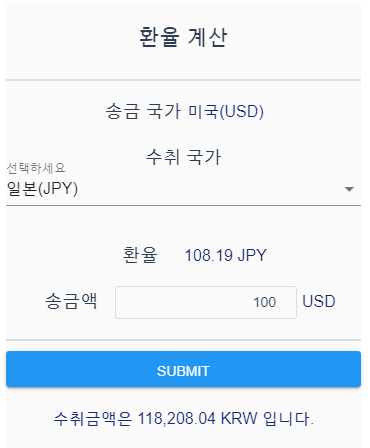
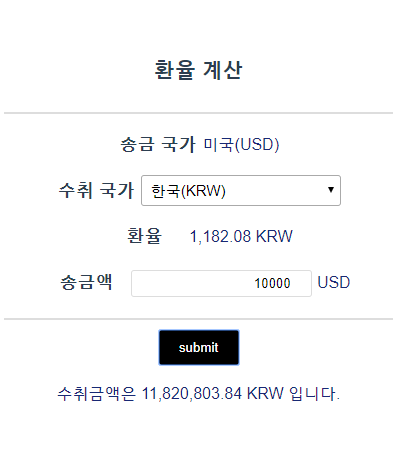
docs: README 수정

diff --git a/frontend/src/components/Home.vue b/frontend/src/components/Home.vue
@@ -1,7 +1,7 @@
 <template>
   <div class="container">
-    <div class="row justify-content-center mt-5 mb-5">
-      <v-app style="width:30%;">
+    <div class="row mt-5 mb-5">
+      <div style="width:30%;">
         <h1>환율 계산</h1>
         <ul>
           <li>
@@ -11,22 +11,25 @@
 
           <li>
             <h2>수취 국가</h2>
-            <v-select v-model="quoteCurrency" @change="getExchangeRate()"
-                      :items="items" label="선택하세요">
-            </v-select>
+            <select class="selectbox" v-model="quoteCurrency" @change="getExchangeRate()">
+              <option slot="first" disabled>선택하세요</option>
+              <option value="KRW">한국(KRW)</option>
+              <option value="JPY">일본(JPY)</option>
+              <option value="PHP">필리핀(PHP)</option>
+            </select>
           </li>
           <li>
             <h2>환율</h2>
-            <span >{{exchangeRate}}</span>
+            <span>{{exchangeRate}}</span>
           </li>
           <li>
             <h2>송금액</h2>
             <input type="number" v-model="amount" :rules="nameRules"><span>USD</span>
           </li>
         </ul>
-        <v-btn :disabled="!valid" @click="getRemittance()" color="info">submit</v-btn>
+        <button class="btn" :disabled="!valid" @click="getRemittance()" @keypress="getRemittance()">submit</button>
         <div class="result" v-if="remittance">수취금액은 <span>{{remittance}}</span> 입니다.</div>
-      </v-app>
+      </div>
     </div>
   </div>
 </template>
@@ -116,6 +119,7 @@
 
   li {
     margin-bottom: 10px;
+    width: 100%;
   }
 
   h1 {
@@ -131,13 +135,15 @@
     margin-bottom: 5px;
     display: inline-block;
     width: 80px;
+    font-weight: bold;
   }
 
-  select {
-    width: 290px;
+  .selectbox {
+    width: 200px;
     padding: 5px;
     border-radius: 3px;
     font-size: 15px;
+    border: 1px solid #aaaaaa;
   }
 
   input {
@@ -148,7 +154,7 @@
     text-align: right;
   }
 
-  button {
+  .btn {
     border: none;
     box-shadow: none;
     border-radius: 3px;
@@ -156,10 +162,11 @@
     padding: 10px;
     color: #fff;
     margin: 10px 0;
-    width: 100%;
+    width: 80px;
   }
+
   span {
-    color:rgb(24, 41, 116);
+    color: rgb(24, 41, 116);
     font-size: 16px;
   }
 
@@ -170,4 +177,5 @@
     text-align: center;
     color: rgb(24, 41, 116)
   }
+
 </style>

diff --git a/src/main/resources/templates/index.html b/src/main/resources/templates/index.html
@@ -1,1 +1,1 @@
-<!DOCTYPE html><html><head><meta charset=utf-8><meta name=viewport content="width=device-width,initial-scale=1"><title>Currency Converter</title><link href=/css/app.97597f0be8a5f7a457fd288c5d3633cb.css rel=stylesheet></head><body><div id=app></div><script type=text/javascript src=/js/manifest.1766e3c7586055624ca0.js></script><script type=text/javascript src=/js/vendor.3e4aca36f34fc110ec66.js></script><script type=text/javascript src=/js/app.60c0015f00da9809457a.js></script></body></html>
+<!DOCTYPE html><html><head><meta charset=utf-8><meta name=viewport content="width=device-width,initial-scale=1"><title>Currency Converter</title><link href=/css/app.a79326fe71e739e6592281d2556fc4d9.css rel=stylesheet></head><body><div id=app></div><script type=text/javascript src=/js/manifest.1766e3c7586055624ca0.js></script><script type=text/javascript src=/js/vendor.3e4aca36f34fc110ec66.js></script><script type=text/javascript src=/js/app.c6dcd7027f8ff192701b.js></script></body></html>

diff --git a/frontend/src/main.js b/frontend/src/main.js
@@ -4,27 +4,9 @@ import Vue from 'vue'
 import App from './App'
 import router from './router'
 import axios from 'axios'
-import BootstrapVue from 'bootstrap-vue'
-import 'bootstrap/dist/css/bootstrap.css'
-import 'bootstrap-vue/dist/bootstrap-vue.css'
-import 'vuetify/dist/vuetify.min.css'
-import Vuetify from 'vuetify'
-import Notifications from 'vue-notification'
-import icon from 'vue-awesome/components/Icon'
-import 'vue-awesome/icons'
-import 'material-design-icons-iconfont/dist/material-design-icons.css'
-
-Vue.component('icon',icon);
-Vue.use(Vuetify)
-Vue.use(BootstrapVue);
-Vue.use(Notifications);
-Vue.use(Vuetify, {
-  iconfont: 'mdi' // 'md' || 'mdi' || 'fa' || 'fa4'
-})
 
 Vue.prototype.$http = axios
 Vue.config.productionTip = false
-// axios.defaults.baseURL = "/api";
 
 
 /* eslint-disable no-new */

diff --git a/README.md b/README.md
@@ -4,6 +4,7 @@ SpringBoot와 Vue.js로 만든 환율 계산기
 
 ![img](frontend/src/assets/img.PNG)
 
+
 ## 실행 방법
 1. 해당 프로젝트를 clone
 ```bash
@@ -23,28 +24,30 @@ java -jar target/currency-converter-0.0.1-SNAPSHOT.jar
 ```
 5. localhost:8080 으로 접속
 
+
+
 ## 설계 및 구현   
 
-### 1. 외부 API 호출
-    - **최신 정보를 제공**하는 것이 중요하다고 판단해서 **환율 정보와 수취 금액을 요청할 때마다 외부 API를 요청**하도록 설계했습니다. 
-    - API 교체 경우를 대비해 Interface에 기능을 선언하고 Class에서 해당 기능을 구현했습니다. 
+## 1. 외부 API 호출
+- **최신 정보를 제공**하는 것이 중요하다고 판단해서 **환율 정보와 수취 금액을 요청할 때마다 외부 API를 요청**하도록 설계했습니다. 
+- API 교체 경우를 대비해 Interface에 기능을 선언하고 Class에서 해당 기능을 구현했습니다. 
       또, 외부 API 요청 이외의 기능은 별도 Class에서 구현해서 모듈화시켰습니다.  
-    - Timeout 설정을 이용해서 **외부 API 요청 지연으로 인한 문제를 방지**했습니다. 
-    - 외부 API 요청에 필요한 Url과 Access key는 용이하게 관리하기 위해 application.properties에 저장했습니다.
-    - 외부 API를 이용해 가져온 데이터를 사용하기 전에 유효성 검사를 진행합니다. 
+- Timeout 설정을 이용해서 **외부 API 요청 지연으로 인한 문제를 방지**했습니다. 
+- 외부 API 요청에 필요한 Url과 Access key는 용이하게 관리하기 위해 application.properties에 저장했습니다.
+- 외부 API를 이용해 가져온 데이터를 사용하기 전에 유효성 검사를 진행합니다. 
         (송금 국가가 고정이므로 source가 "USD"로 일치하는지 등등)
     
 ### 2. 수취 국가, 송금액에 따라 환율 정보, 수취 금액 가져오기 
-    - 수취 국가, 송금액을 입력하면 API 호출을 통해 환율 정보, 수취 금액을 가져옵니다. 
-    - 요청을 보낼때마다 외부 API 요청을 통해 새로운 환율 정보를 가져와서 연산에 이용합니다.
-    - **Controller는 @RequestMapping을 통해 요청을 받고 ResponseEntity를 이용해 응답을 하는 역할**만 하고 
+- 수취 국가, 송금액을 입력하면 API 호출을 통해 환율 정보, 수취 금액을 가져옵니다. 
+- 요청을 보낼때마다 외부 API 요청을 통해 새로운 환율 정보를 가져와서 연산에 이용합니다.
+- **Controller는 @RequestMapping을 통해 요청을 받고 ResponseEntity를 이용해 응답을 하는 역할**만 하고 
      외부 API 요청, 환율 정보 연산, 수취 금액 연산 등의 **비즈니스 로직은 Service**가 처리합니다.  
-    - 수취 국가, 송금액은 Frontend와 Backend에서 각각 유효성 검사를 합니다.    
-    - 환율 정보, 수취 금액은 JavaScript 문법을 이용해 표기법에 맞게 표시됩니다. 
+- 수취 국가, 송금액은 Frontend와 Backend에서 각각 유효성 검사를 합니다.    
+- 환율 정보, 수취 금액은 JavaScript 문법을 이용해 표기법에 맞게 표시됩니다. 
 
 ### 3. Vue.js를 이용해 화면 구현  
-    - Maven 프로젝트 내에 **Vue.js 프로젝트를 생성**했습니다. 
-    - 프로젝트 빌드시 WAS가 접근 가능한 경로에 html, css, js 파일이 생성되도록 설정해 연동했습니다.  
+- Maven 프로젝트 내에 **Vue.js 프로젝트를 생성**했습니다. 
+- 프로젝트 빌드시 WAS가 접근 가능한 경로에 html, css, js 파일이 생성되도록 설정해 연동했습니다.  
 
 ## 개선 사항  
 
